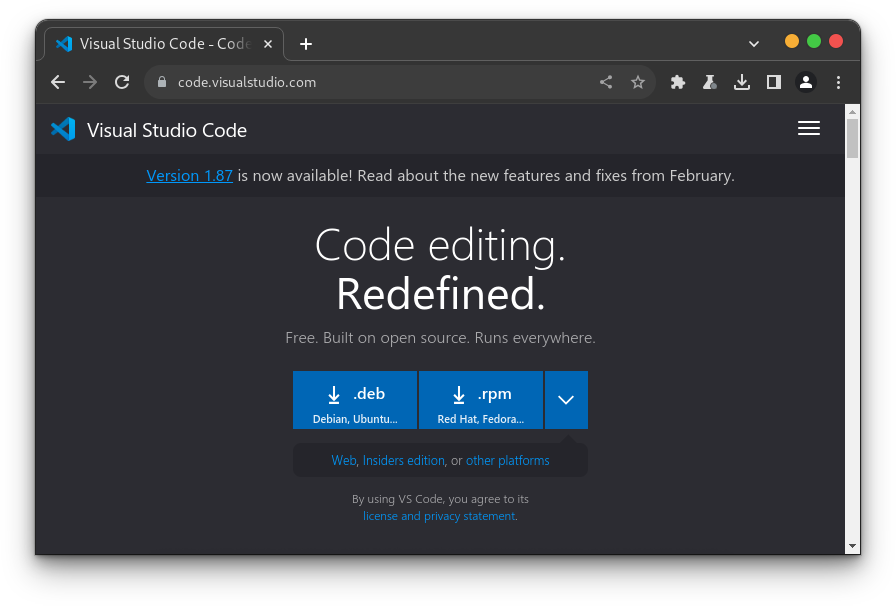
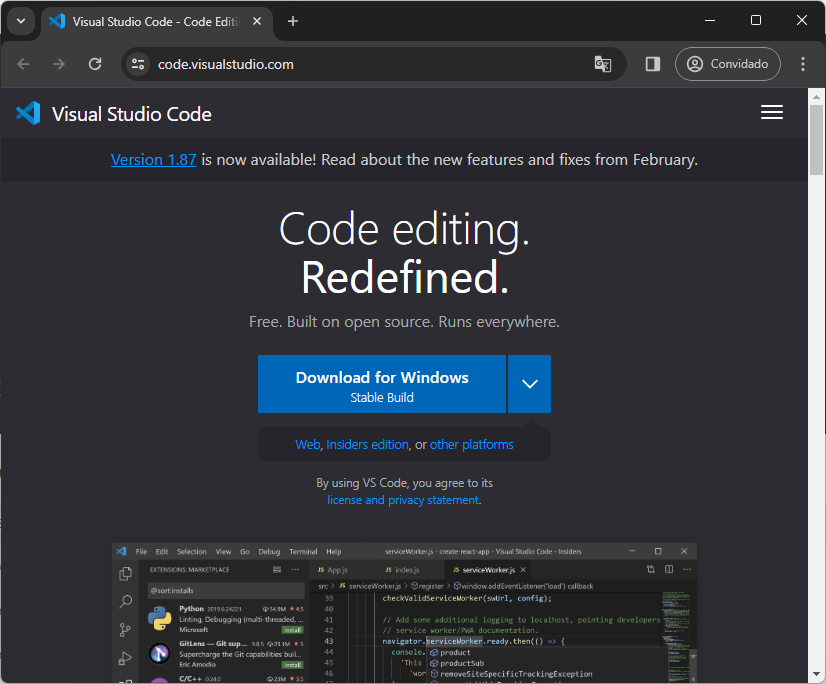
Adaptação aulas p/ windows

diff --git a/Curso de Introd. ao Desenvolvimento WEB/Aula 2 -  Instalação e configuração do ambiente de desenvolvimento WEB (Visual Studio Code).md b/Curso de Introd. ao Desenvolvimento WEB/Aula 2 -  Instalação e configuração do ambiente de desenvolvimento WEB (Visual Studio Code).md
@@ -5,9 +5,7 @@ Durante esta aula, iremos abordar passo a passo a instalação do Visual Studio 
 # Como é uma página HTML?
 Antes de instalarmos as nossas ferramentas, vamos avançar um pouco e observar um exemplo da estrutura básica de uma página web, escrita em HTML, para que fique claro onde queremos chegar. 
 
-## Windows
-## Linux
-No Ubuntu o editor de textos que vem instalado padrão é o **gedit**. Abra o programa e digite o seguinte código:
+O **Windows** possui um programa editor de textos simples já instalado no sistema chamado **Bloco de Notas**. Abra o programa e digite o seguinte código:
 
 ```
 <!DOCTYPE html>
@@ -23,7 +21,9 @@ No Ubuntu o editor de textos que vem instalado padrão é o **gedit**. Abra o pr
 </html>
 ```
 
-Em seguida clique no botão **Salvar**, escolha uma pasta qualquer e um nome para o seu arquivo terminando com uma extensão `.html`, por exemplo: selecione a pasta `Documentos` e dê o nome para o arquivo `meu_site.html`.
+Em seguida clique no botão **Arquivo** e depois **Salvar**, escolha uma pasta qualquer e um nome para o seu arquivo terminando com uma extensão `.html`, por exemplo: selecione a pasta `Documentos`, o nome para o arquivo `meu_site.html` e na opção **Tipo:** selecione `Todos os arquivos` .
+
+![[1-salvar-html.png]]
 
 O nome do arquivo não deve ter letras maiúsculas, espaços ou caracteres especiais (como `~!@#$%^&*()+[]/\|;:.?'`).
 
@@ -35,7 +35,8 @@ Para separar palavras, utilize o hífen (`-`) ou o subtraço (conhecido como *un
 > Para evitar erros o navegador faz uma codificação, ou uma transformação desses caracteres. Ao salvar como **Documento sem título 1.html** o navegador entenderá como **Documento%20sem%20título%201.html**
 
 Em seguida abra o arquivo que você acabou de salvar clicando duas vezes sobre ele e você verá o resultado no seu navegador
-![[1-meu-site.png]]
+![[2-meu-site.png]]
+
 E parabéns, com isso temos um exemplo funcional de um site (ou página web) funcionando no seu computador. Em seguida vamos conhecer as ferramentas necessárias para trabalhar melhor com este site.
 
 # Google Chrome
@@ -44,28 +45,31 @@ O Google Chrome é um [[Aula 1 - História e evolução da computação e da int
 
 ## Instalação
 
-### Linux
 Caso o seu computador já não possua o Google Chrome instalado, você deve baixá-lo através do site: https://www.google.com/chrome e clicar em "Faça o download aqui."
-![[2-google-chrome-page.png]]
-No Linux, uma tela aparecerá para que você selecione o formato do arquivo adequado para a sua distribuição, no caso do Ubuntu, selecione a opção **64 bits .deb (para Debian/Ubuntu)** e em seguida clique em **Aceitar e instalar**.
-![[3-google-chrome-distro.png]]
-Um arquivo começará a ser baixado para o seu computador e após finalizar, abra este arquivo e em seguida clique em **Instalar**
-![[4-google-chrome-install.png]]Com isso o navegador estará instalado e pronto para usar.
+
+![[3-google-chrome-page 1.png]]
+
+Uma tela aparecerá para que você confirme a versão do Chrome que irá baixar. Clique em **Aceitar e instalar**.
+
+![[4-google-chrome-prompt-windows.png]]
+
+Um arquivo começará a ser baixado para o seu computador e após finalizar, abra este arquivo e siga os passos para a instalação. Com isso o navegador estará instalado e pronto para usar.
 
 # Visual Studio Code
 O Visual Studio Code (abreviado como VSCode) é um editor de texto/código-fonte desenvolvido pela Microsoft para Windows, Linux e macOS. Ele inclui suporte para depuração, controle de versionamento Git incorporado, realce de sintaxe, complementação inteligente de código. Exploraremos muitas das funcionalidades deste editor ao longo do curso.
 
 ## Instalação
 
-### Linux
-A instalação é muito parecida com o [[Aula 2 -  Instalação e configuração do ambiente de desenvolvimento WEB (Visual Studio Code)#Google Chrome|Google Chrome]], basta acessar https://code.visualstudio.com/ e novamente escolher a versão compatível a distribuição, neste caso clicando em **.deb**.
+A instalação é muito parecida com o [[Aula 2 -  Instalação e configuração do ambiente de desenvolvimento WEB (Visual Studio Code)#Google Chrome|Google Chrome]], basta acessar https://code.visualstudio.com/ e escolher a opção **Download for Windows**
 
 ![[5-vscode-page.png]]
-Repita o processo de abrir o arquivo após baixado e em seguida clique em **Instalar**. Após alguns instantes seu VSCode estará instalado.
+Repita o processo de abrir o arquivo após baixado e seguir os passos de instalação. Após alguns instantes seu VSCode estará instalado.
 
 ## Configuração
 Ao abrir o VSCode você sera apresentado à algumas configurações básicas que podem ser personalizadas de acordo com a sua preferência e a explicação de algumas funcionalidades. Na tela de boas-vindas escolha o tema de cores que mais lhe agrada.
+
 ![[6-vscode-welcome.png]]
+
 Em seguida vamos primeiramente mudar o idioma do nosso VSCode para Português do Brasil, para que o idioma não seja uma barreira durante o aprendizado. Observe um menu vertical à esquerda com vários ícones, passando o cursor do mouse por cima de cada um, você terá mais informações sobre cada um:
 - Explorer (`Ctrl+Shift+E`) - Explorador.
 - Search (`Ctrl+Shift+F`) - Busca.
@@ -76,6 +80,7 @@ Em seguida vamos primeiramente mudar o idioma do nosso VSCode para Português do
 - Manage - Gerenciar
 
 Clique em **Extensions** ou pressione as teclas `Ctrl+Shift+X` juntas para abrir o menu de extensões, você verá a loja de extensões para o VSCode com várias sugestões para as mais variadas tecnologias no qual ele oferece suporte. Na barra de busca **Search Extensions in Marketplace** digite a palavra **Brazil** (em inglês, com "z").
+
 ![[8-vscode-extensions-store.png]]
 
 Em seguida, no primeiro resultado **Portuguese (Brazil) Language Pack for Visual Studio Code** clique no botão à direita **Install**. em instantes um pop-up (tipo de aviso que surge na tela) aparecerá no canto inferior direito da tela solicitando alterar para o idioma que recém instalamos e reiniciar o VSCode, confirme clicando em **Change Language and Restart**. O editor irá reiniciar em português do brasil.
@@ -90,7 +95,7 @@ Agora, podemos tentar visualizar o [[Aula 2 -  Instalação e configuração do 
 Um aviso de permissão poderá ser exibido, se este aparecer, marque a opção **Lembrar minha decisão em todos os espaços de trabalho** e em seguida clique em **Abrir**.
 ![[9-vscode-permission-modal.png]]
 
-Logo que o arquivo é aberto, uma coisa deverá chamar sua atenção, algumas partes do nosso código HTML agora estão coloridos, desta forma:
+Logo que o arquivo é aberto, uma coisa deverá chamar sua atenção, algumas partes do nosso código HTML agora estão coloridas, desta forma:
 ```html
 <!DOCTYPE html>
 <html>
@@ -106,7 +111,7 @@ Logo que o arquivo é aberto, uma coisa deverá chamar sua atenção, algumas pa
 ```
 Essa é uma das funcionalidades do VSCode em relação aos editores de texto comum, conhecido como *syntax highlighting* ou destaque de sintaxe, ele automaticamente entende um arquivo pela sua extensão, neste caso `.html` 
 
-Algumas das muitas outras podem ser conferidas no próprio site do VSCode (https://code.visualstudio.com/docs/languages/html, em inglês), mas podemos destacar:
+Algumas das muitas outras podem ser conferidas no próprio [site do VSCode](https://code.visualstudio.com/docs/languages/html) (em inglês), mas podemos destacar:
 
 ### *IntelliSense*
 À medida que você digita HTML, aparecem sugestões via a funcionalidade *IntelliSense*. Na imagem abaixo, você pode ver uma sugestão de fechamento de elemento HTML `</div>` bem como uma lista específica de contexto de elementos sugeridos
